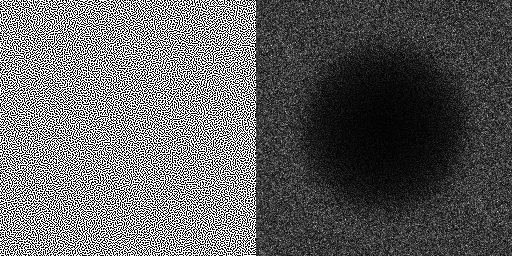
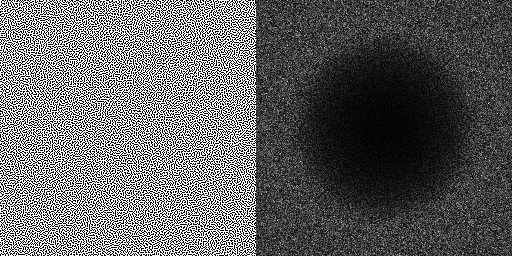
void and cluster is the winner again. used LUT for initial binary pattern and that sped it up a ton.

diff --git a/generatebn_void_cluster.cpp b/generatebn_void_cluster.cpp
@@ -303,13 +303,19 @@ static void MakeInitialBinaryPattern(std::vector<bool>& binaryPattern, size_t wi
     std::mt19937 rng(GetRNGSeed());
     std::uniform_int_distribution<size_t> dist(0, width*width);
 
+    std::vector<float> LUT;
+    LUT.resize(width*width, 0.0f);
+
     binaryPattern.resize(width*width, false);
     size_t ones = width*width/16;
     for (size_t index = 0; index < ones; ++index)
     {
         size_t pixel = dist(rng);
         binaryPattern[pixel] = true;
+        WriteLUTValue(LUT, width, true, int(pixel % width), int(pixel / width));
     }
+
+    SaveLUTImage(binaryPattern, LUT, width, "out/_init.png");
 
     int iterationCount = 0;
     while (1)
@@ -320,18 +326,22 @@ static void MakeInitialBinaryPattern(std::vector<bool>& binaryPattern, size_t wi
         // find the location of the tightest cluster
         int tightestClusterX = -1;
         int tightestClusterY = -1;
-        FindTightestClusterOrLargestVoid<true, false>(binaryPattern, width, tightestClusterX, tightestClusterY);
+        //FindTightestClusterOrLargestVoid<true, false>(binaryPattern, width, tightestClusterX, tightestClusterY);
+        FindTightestClusterLUT(LUT, binaryPattern, width, tightestClusterX, tightestClusterY);
 
         // remove the 1 from the tightest cluster
         binaryPattern[tightestClusterY*width + tightestClusterX] = false;
+        WriteLUTValue(LUT, width, false, tightestClusterX, tightestClusterY);
 
         // find the largest void
         int largestVoidX = -1;
         int largestVoidY = -1;
-        FindTightestClusterOrLargestVoid<false, false>(binaryPattern, width, largestVoidX, largestVoidY);
+        //FindTightestClusterOrLargestVoid<false, false>(binaryPattern, width, largestVoidX, largestVoidY);
+        FindLargestVoidLUT(LUT, binaryPattern, width, largestVoidX, largestVoidY);
 
         // put the 1 in the largest void
         binaryPattern[largestVoidY*width + largestVoidX] = true;
+        WriteLUTValue(LUT, width, true, largestVoidX, largestVoidY);
 
         #if SAVE_VOIDCLUSTER_INITIALBP()
         // save the binary pattern out for debug purposes
@@ -343,6 +353,8 @@ static void MakeInitialBinaryPattern(std::vector<bool>& binaryPattern, size_t wi
             break;
     }
     printf("\n");
+
+    SaveBinaryPattern(binaryPattern, width, "out/_LUT_YES", 0, -1, -1, -1, -1);
 }
 
 // Phase 1: Start with initial binary pattern and remove the tightest cluster until there are none left, entering ranks for those pixels
@@ -601,7 +613,7 @@ static void Phase3(std::vector<bool>& binaryPattern, std::vector<float>& LUT, st
 void GenerateBN_Void_Cluster(std::vector<uint8_t>& blueNoise, size_t width, const char* baseFileName)
 {
 
-#if 0
+#if 1
     // make the initial binary pattern
     std::vector<bool> initialBinaryPattern;
     MakeInitialBinaryPattern(initialBinaryPattern, width, baseFileName);

diff --git a/main.cpp b/main.cpp
@@ -236,7 +236,24 @@ int main(int argc, char** argv)
 
 /*
 
+* make a blog post on void and cluster by itself.
+* big optimizations:
+ 1) limit to 3 sigma
+ 2) use a LUT where you write your values.
+* also of note: compare it to mitchell's best candidate for speed and quality of generating sample points!
+ * mention how "initial binary pattern" makes blue noise distributed points, and "phase 1" makes it prorgessive.
+ * phase 1 could make other blue noise-esque distributed points progressive.
+
 ================== TODO ==================
+
+* probably can boost up the size of initial binary pattern again to width*width/4?
+
+* have V&C use LUT for initial binary pattern and compare time and quality vs mitchells
+ * 48 seconds total 256x256 not using lut for initial binary pattern setup
+ * 35 seconds for initial pattern. 364 seconds for phase 1
+ * with LUT -> 640 ms for initial binary pattern, 400 ms for phase 1
+  * vs 1800ms for mitchell's best candidate
+
 
 Paniq in regards to my LUT void and cluster on gpu
 "there's often a parallelizable solution somewhere. in this case it looks like a pyramid histogram would once again save the day (that's the GPU version of map-reduce)"
